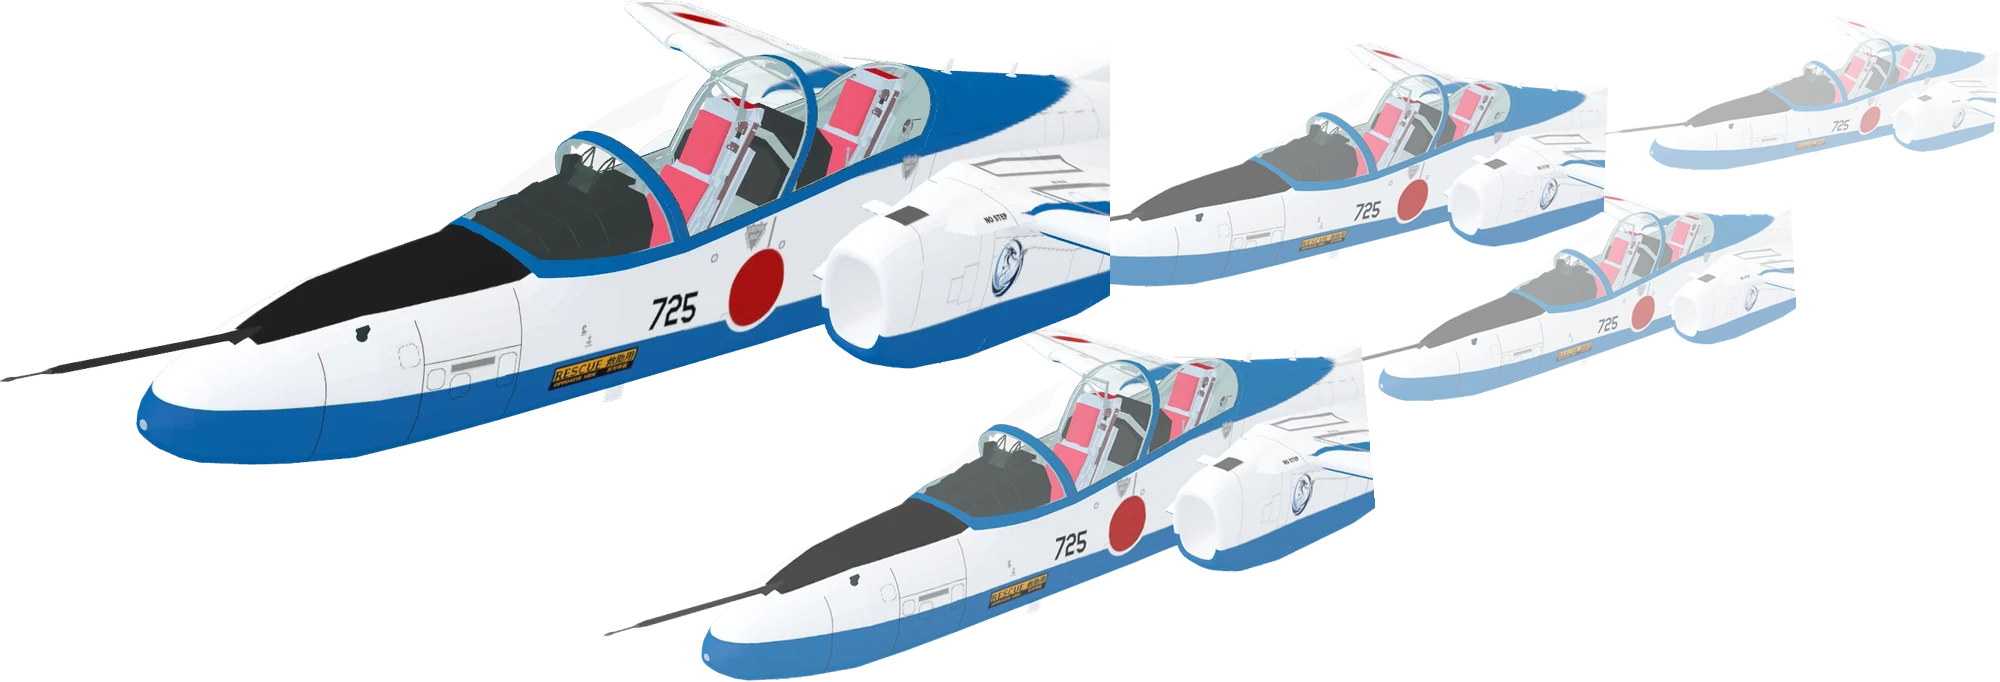
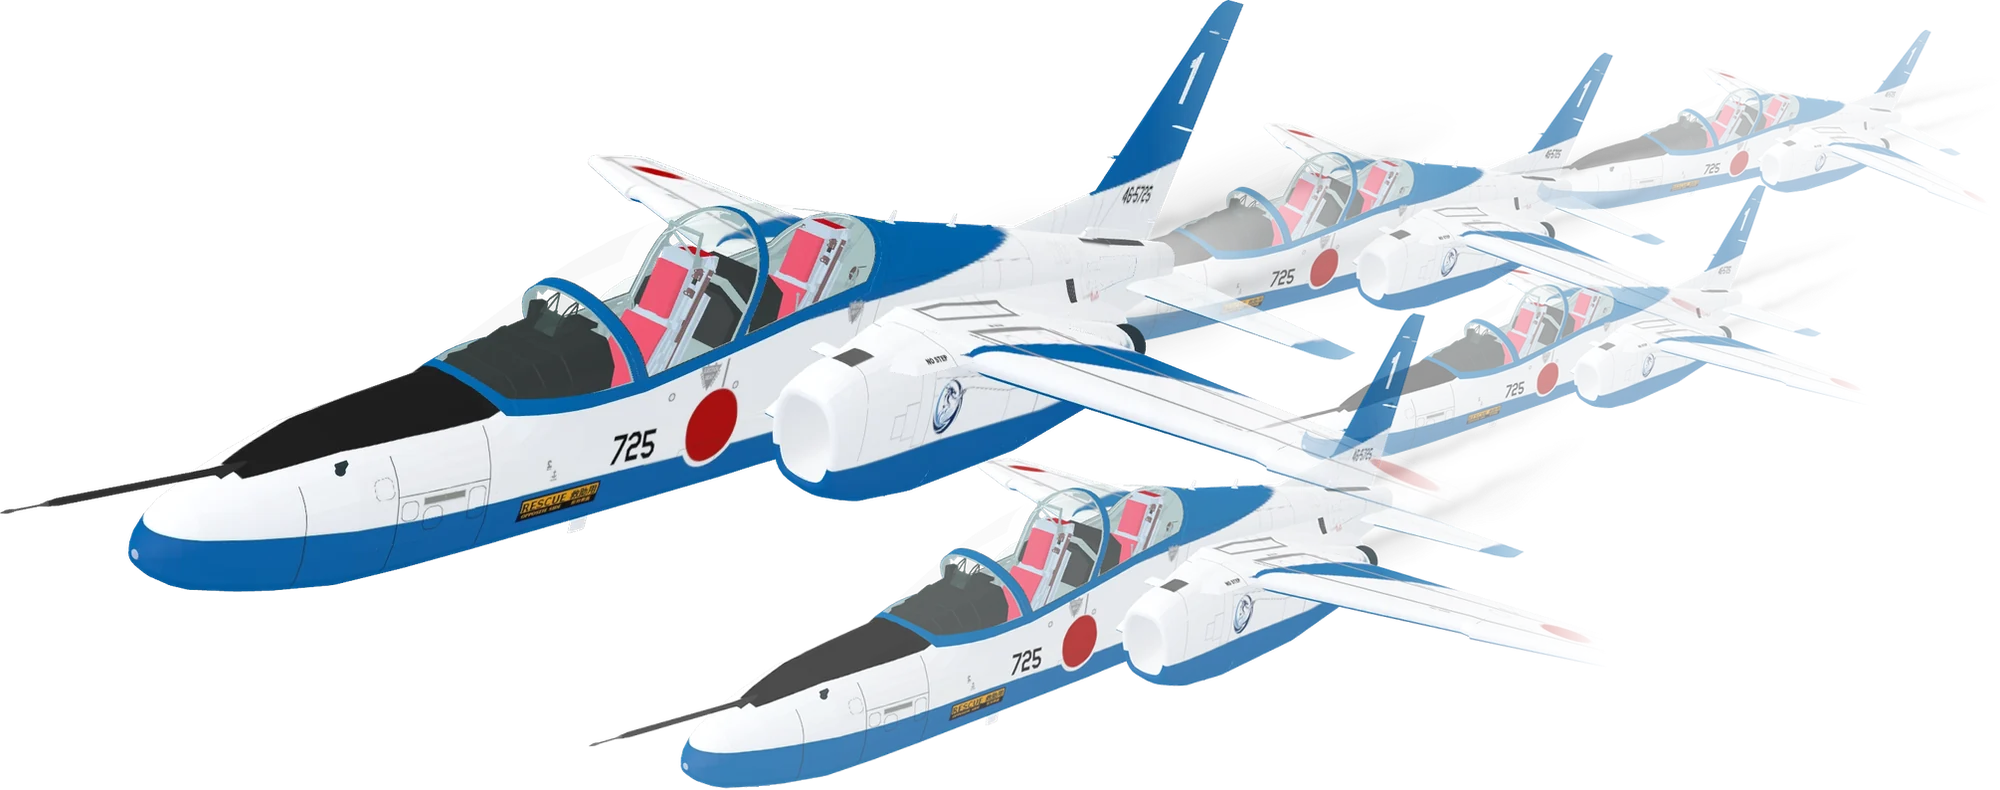
v04.57 見出しの編隊の絵が四角く切れていたのを直す（煙を断ち切らず、なだらかに消す）

diff --git a/index.html b/index.html
@@ -1222,7 +1222,7 @@ const DEMO_ON=true;
 /* ネイティブの包み（Capacitor）で動いているか。アプリ内は常に全機能版で、サービスワーカーは使わない */
 const NATIVE=!!window.Capacitor||/^capacitor:|^ionic:/.test(location.protocol);
 /* 版の表記: 大きい更新で v02 → v03 と上げ、小さい更新は v02.01 → v02.02 と小数側を上げる。sw.js の CACHE と必ずそろえる */
-const APP_VER='v04.56';
+const APP_VER='v04.57';
 let edition=(DEMO_ON&&!NATIVE)?store.get('edition','demo'):'full';
 const isFull=()=>edition==='full';
 let autoQueue=0;   /* 昼の空へ作り直しているあいだに押された「自動操縦」の回数（読み込み後に行う） */

diff --git a/guide.html b/guide.html
@@ -314,7 +314,7 @@ footer .sig{margin-top:1rem;font-family:var(--mono);font-size:var(--tiny);color:
       </dl>
     </div>
     <div class="jetband">
-      <img src="/img/guide/header.webp" width="2000" height="682" alt="TENRYU の 3D モデルから描いた T-4 ブルーインパルスの編隊" fetchpriority="high" decoding="async">
+      <img src="/img/guide/header.webp" width="2000" height="790" alt="TENRYU の 3D モデルから描いた T-4 ブルーインパルスの編隊" fetchpriority="high" decoding="async">
     </div>
   </div>
 </section>

diff --git a/sw.js b/sw.js
@@ -1,5 +1,5 @@
 /* オフライン対応サービスワーカー。ファイルを更新したら CACHE の版数を上げる。 */
-const CACHE = 'aat-v04.56';
+const CACHE = 'aat-v04.57';
 /* 大きくて変わらないもの（3D モデル）は、版を上げても消さない入れ物に置く。
    ここを消してしまうと、更新のたびに 5.6 MB を取り直すことになり、オフラインで 3D が動かなくなる */
 const BIG = 'aat-big-v1';

diff --git a/dev/docs/internal-design.md b/dev/docs/internal-design.md
@@ -2745,3 +2745,15 @@ print(sorted(c for c in used if c not in d))"
 - 背景は inline SVG の幾何学模様。同心円 3 重・破線の輪・十字の目盛り（90 秒で 1 周）と、外側の輪と弧（140 秒で逆回り）、下に 2 本の緩い曲線、左に細い斜line。`preserveAspectRatio="xMidYMid slice"` で、どの幅でも切れずに埋まる。
 - 光の帯は 8 秒で往復。
 - 編隊の絵は右の列（狭い画面では下）に置き、`max-width:46rem` で収める。はみ出させない。
+
+## v04.57 見出しの編隊の絵が四角く切れていたのを直す
+
+利用者の実機の画面で、先頭の機体の後ろに**まっすぐな縦の切れ目**が出ていた。
+
+原因: `hero.webp`（2894×970。左に機体、右へ煙が伸びる）から機体を切り出すとき、`x=1500` で切っていた。
+そこはまだ中身が濃い（列ごとの不透明度の合計を測ると、`x=1500` でも最大の 0.68）。**煙の途中で断ち切っていた**ので、拡大したときに直線の縁として出た。
+
+直し方: `x=2100` まで取り、`x=1650` から `2100` にかけて alpha を線形に落として（`ImageChops.multiply` で横方向の傾斜を掛ける）、煙が自然に消えるようにした。そのうえで `getbbox()` で余白を落とす。
+
+- `img/guide/header.webp` 2000×790・208 KB。共有用の `img/guide/ogp.jpg` も、新しい編隊と新しい見出し（TENRYU ＋ サブタイトル）で作り直した。
+- 画像を切り出すときは、**列ごとの不透明度を測ってから切る**。目で見て「ここまで機体」と決めると、薄い煙を断ち切って直線が出る。
